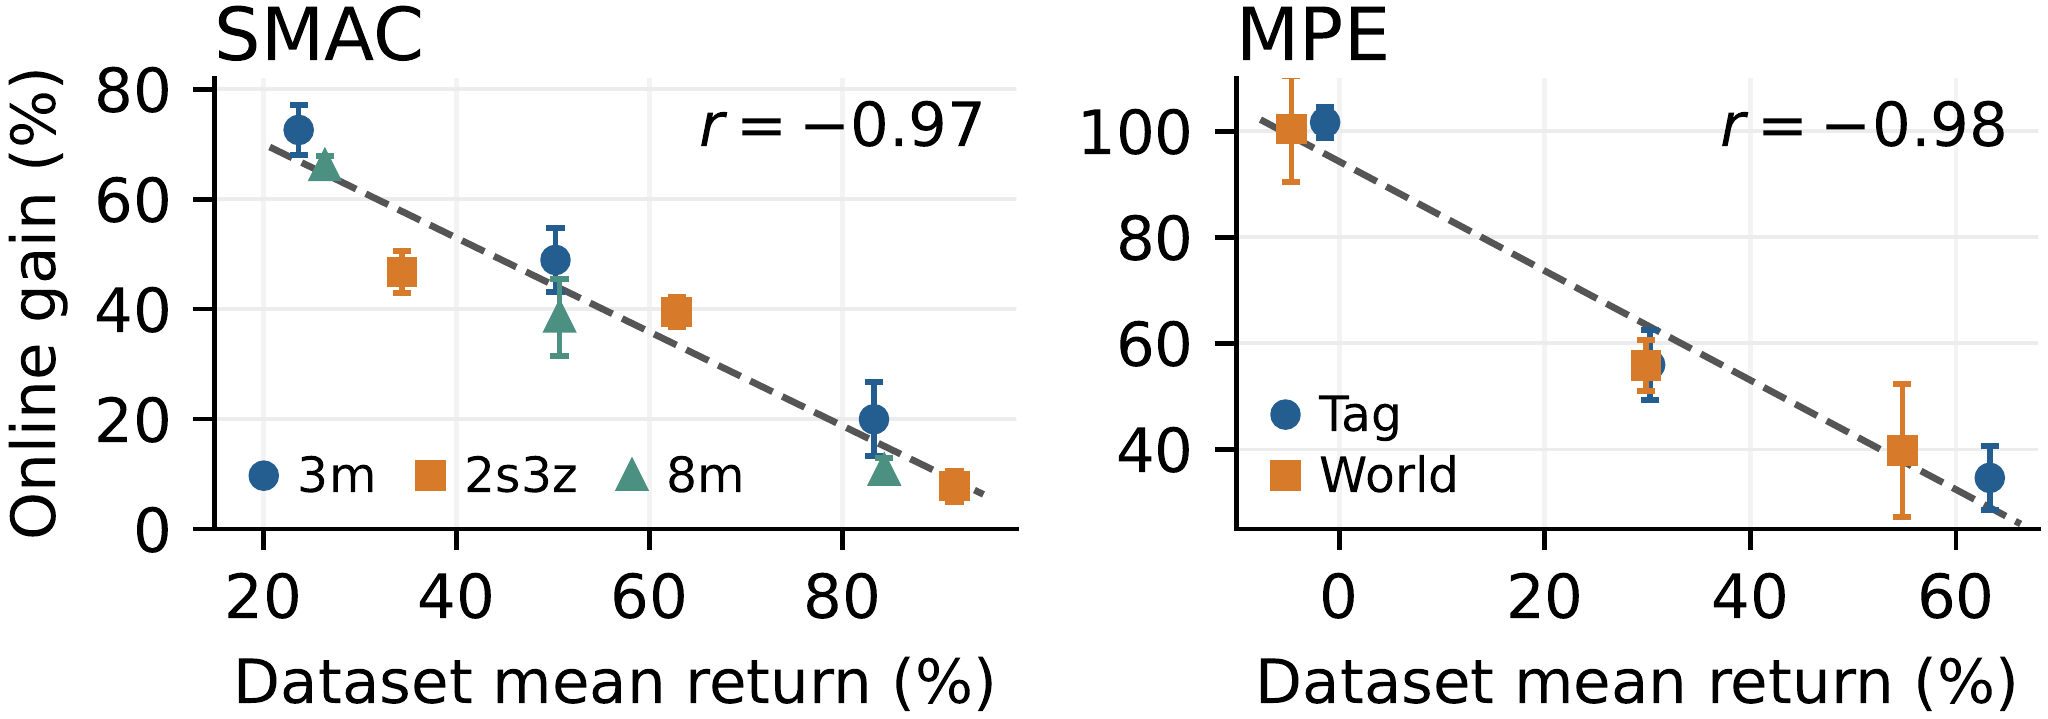
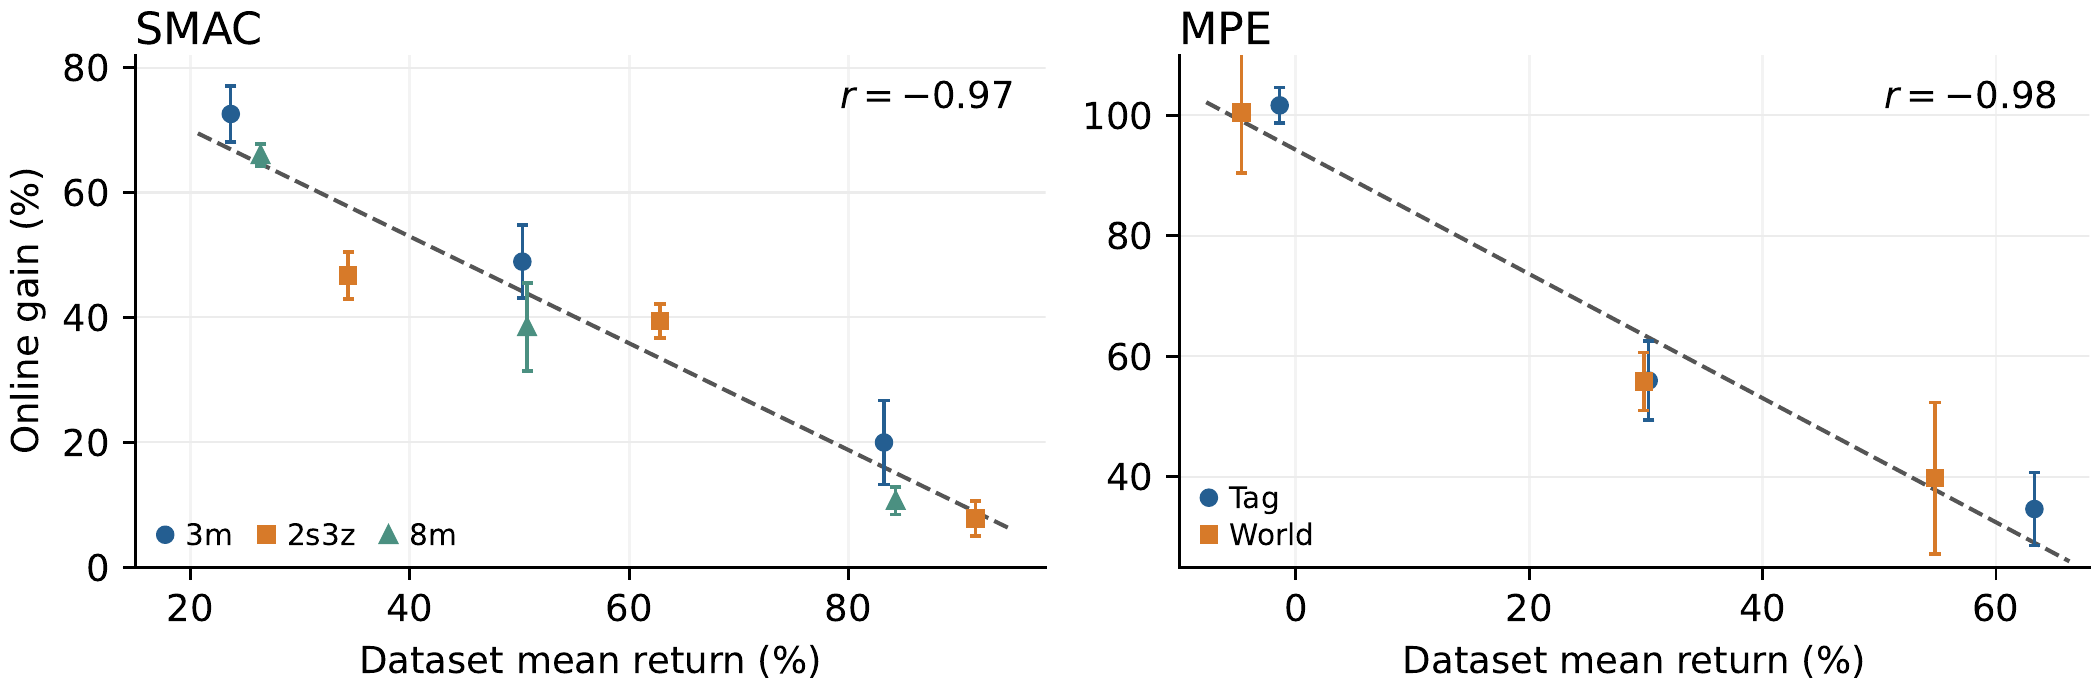
Match Figure 4 text size to the other figures

diff --git a/index.html b/index.html
@@ -192,7 +192,7 @@ footer{text-align:center;color:var(--faint);font-size:13px;padding:20px 0 40px}
     <figcaption><b>Figure 3: Learning curves.</b> <span class="en">Pretraining updates followed by online environment steps in millions. The tick 1 / 0 marks the start of online training, and colors identify offline data quality.</span><span class="zh">横轴先是预训练更新次数，再是在线环境步数（百万）。刻度 1 / 0 是在线训练开始处，颜色表示离线数据质量。</span></figcaption>
   </figure>
   <figure>
-    <img src="assets/quality_gain.png" alt="Online gain versus offline data quality" style="max-width:720px;margin:0 auto;display:block">
+    <img src="assets/quality_gain.png?v=2" alt="Online gain versus offline data quality">
     <figcaption><b>Figure 4: Online gain and offline data quality.</b> <span class="en">Online gain versus offline dataset mean return, both as a percentage of the task's best online return. Dashed lines are linear fits, and error bars show one standard deviation.</span><span class="zh">在线提升幅度与离线数据平均回报的关系，两者都以该任务最好的在线回报为 100%。虚线是线性拟合，误差棒为一个标准差。</span></figcaption>
   </figure>
   <h3 id="robots"><span class="en">Bimanual manipulation</span><span class="zh">双臂操作</span></h3>
